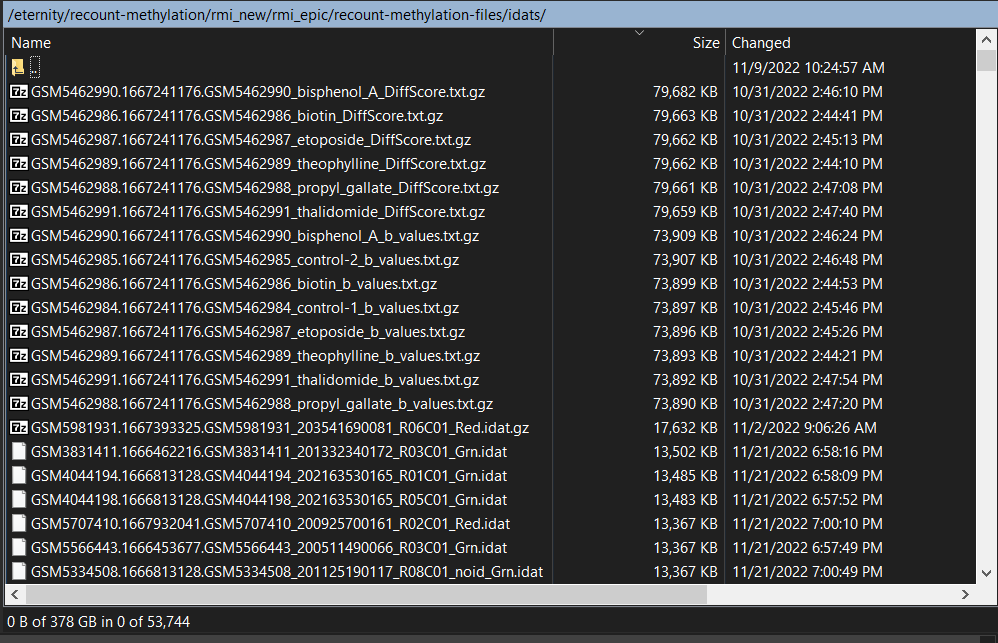
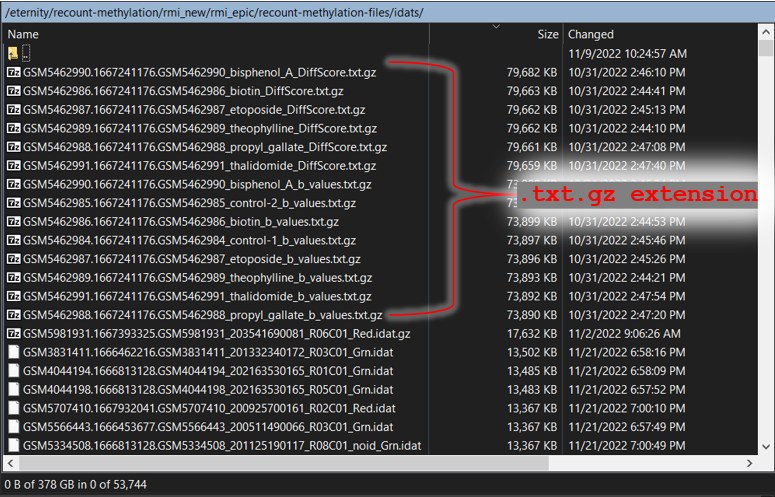
update readme
annotate idat expand png
update readme

diff --git a/README.md b/README.md
@@ -310,18 +310,17 @@ Rscript ./inst/scripts/dl_soft.R
 
 Once data files have been downloaded, they can be prepared for compilation. 
 
-Over the course of the following steps, you may find there are unusual file type, such as files with `.txt` extension 
-instead of `.idat` (see below). 
+Over the course of the following steps, you may find unexpected file types have been downloaded, such as files with 
+`.txt.gz` extension that were downloaded to the `./recount-methylation-files/idats` folder (see below). These types of 
+anomalies are to be expected when performing a comprehensive acquisition and compilation of public data. 
 
 ![Expanded IDATs and .txt files.](img/example_idats-expand.PNG)
 
-These types of anomalies are to be expected when performing a comprehensive acquisition and compilation of public data. 
-The instance will be able to handle many of these types of anomalies, it is possible that new anomalous filenames and
-extensions can be encountered when compiling new datasets. 
-
-It is entirely up to you, the user, to decide how to handle files in these situations, and some acceptable practices 
-would be to manually delete these files or possibly move them to a new location and target them in a follow up compilation 
-effort.
+The instance will be able to handle many of these types of anomalies, however it is still possible new anomalous filenames and
+extensions can be encountered whenever new public data is compiled. It is entirely up to you, the user, to decide how to handle 
+files in these situations. For instance, you may choose to manually delete these files, or alternatively you could move them to 
+a new location (e.g. move `.txt` files to a new directory at  `./recount-methylation-files/txt/`) and then target them in a future 
+compilation.
 
 ### 4a. Sample IDATs
 
